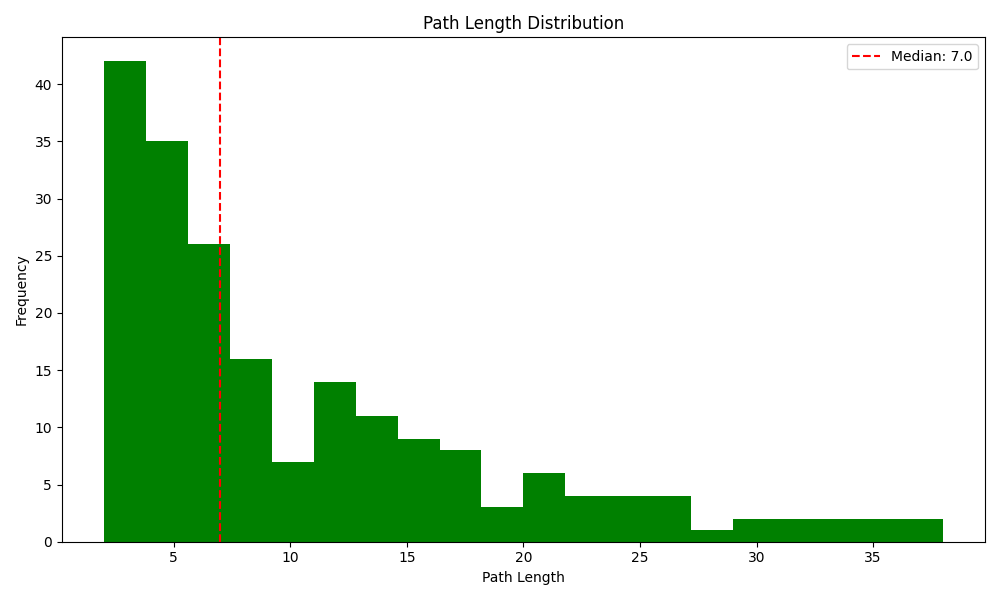
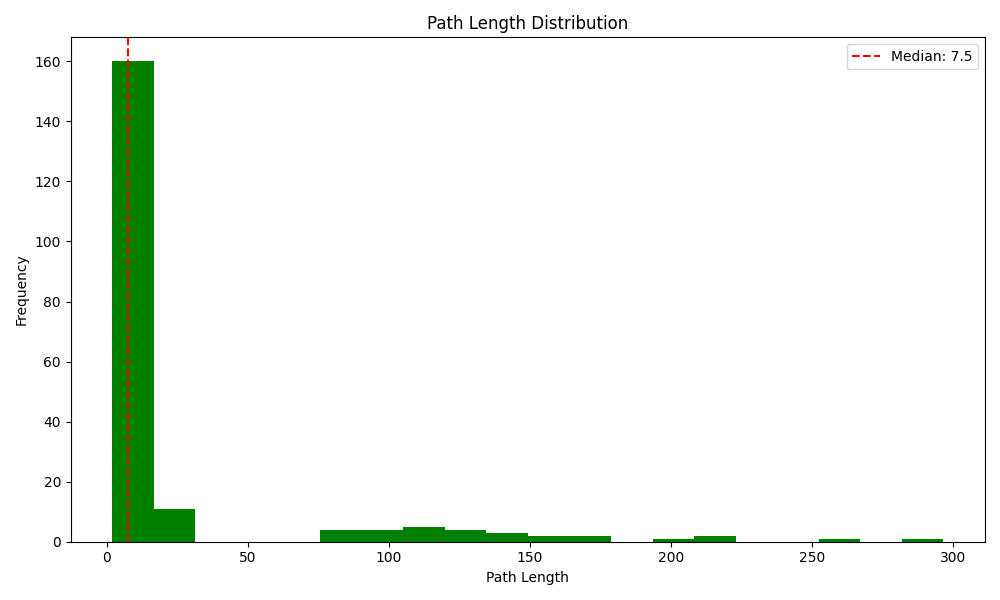
added solution notes

diff --git a/bogoDB/candidate_submission/optimize_graph.py b/bogoDB/candidate_submission/optimize_graph.py
@@ -146,33 +146,41 @@ def optimize_graph(
         if not node in important_nodes:
             unnecessary_node_list.append(node)
 
-
-    # create small cycle of important nodes
+    # order nodes by occurence
     important_node_list = [key for key, value in important_nodes.items()]
-
     important_node_list.sort(key = lambda x : -important_nodes[x])
-    print(important_node_list)
 
-    for i in range(len(important_node_list)):
-        u = important_node_list[i]
-        v = important_node_list[(i + 1)%len(important_node_list)]
-        optimized_graph[u][v] = 1
+    # split important nodes into 3 chains, ignoring most occuring node
 
-    # # feed other nodes into small cycle
-    # unnecessary_node_count = len(unnecessary_node_list)
-    # for i in important_node_list:
-    #     ratio = important_nodes[i]/total_queries # we want to have 'ratio' of the unnecessary nodes pointing to i
-    #     used = 0
-    #     # add the correct number of unnecessary nodes pointing to i
-    #     while used < ratio*unnecessary_node_count and len(unnecessary_node_list) > 0:
-    #         x = unnecessary_node_list[-1]
-    #         unnecessary_node_list.pop()
-    #         optimized_graph[x][i] = 1
-    #         used += 1
-    # # if we have leftovers due to precision, just distribute them according to the most important one
+    chain_lengths = [len(important_node_list)//2, len(important_node_list)//4]
+
+    chains = [[], [], []]
+
+    for i in range(1, chain_lengths[0]):
+        chains[0].append(important_node_list[i])
+    for i in range(chain_lengths[0], chain_lengths[0] + chain_lengths[1]):
+        chains[1].append(important_node_list[i])
+    for i in range(chain_lengths[0] + chain_lengths[1], len(important_node_list)):
+        chains[2].append(important_node_list[i])
+
+    # add edges for each chain and link the end to most occuring node
+    for i in range(3):
+        print(chains[i])
+        for j in range(len(chains[i]) - 1):
+            u = chains[i][j]
+            v = chains[i][j + 1]
+            optimized_graph[u][v] = 1
+        optimized_graph[chains[i][-1]][important_node_list[0]] = 1
+
+    # add edges from most occuring nodes to chains, should be weighted
+    optimized_graph[important_node_list[0]][chains[0][0]] = 10
+    optimized_graph[important_node_list[0]][chains[1][0]] = 1
+    optimized_graph[important_node_list[0]][chains[2][0]] = 1
+
+    # feed all unnecessary nodes into most important node
     for i in unnecessary_node_list:
         optimized_graph[i][important_node_list[0]] = 1
-
+    
     # =============================================================
     # End of your implementation
     # =============================================================

diff --git a/solution.md b/solution.md
@@ -3,27 +3,6 @@
 
 I spent way too long trying to get the emojis to render :(
 
-### Approach & Analysis
-
-
-
-
-### Optimization Strategy
-
-[Explain your optimization strategy in detail]
-
-### Implementation Details
-
-[Describe the key aspects of your implementation]
-
-### Results
-
-[Share the performance metrics of your solution]
-
-### Trade-offs & Limitations
-
-[Discuss any trade-offs or limitations of your approach]
-
 ### Iteration Journey
 
 For my first idea, I decided to solve a simpler version of the problem, ignoring the exponential distribution. Instead, I guaranteed that every query would reach its desired node by creating a big cycle. This idea achieved a score of a bit over 200.
@@ -33,3 +12,91 @@ After running this, I notice that there are very few distinct nodes that are act
 We can additionally optimize the previous idea, since within the few distinct queried nodes (call these important nodes), there are still differences in the amount of times they are queried. My first idea for optimizing this is to weight the number of unnecessary nodes that feeds into each important nodes by the number of times they are queried. After implementing this, it actually performs worse than the previous idea. Why?
 
 From looking at the data, the issue is that when a path enters the cycle, it might have to loop around the entire cycle to find its target node. Thus, we should be ordering the cycle in such a way so that the expected number of steps to reach the target node is minimized once a path enters the cycle. We can do this by having every single unnecessary node feed into the most occuring queried node and have the cycle loop around in decreasing order of occurence. This improves the score to around 540.
+
+Using this algorithm, the distribution of path lengths should be monotonically decreasing. However, there is a wierd gaps in the histogram when using the visualizer (specifically path length of 10 occurs much less than lengths 11-16). I believe this is since there is a chance for the random starting node to be within the cycle, which could then force it to loop around before reaching its target. How can we target this issue?
+
+The main source of this issue is that the cycle length is long, but we can use a probabilistic solution to get around it. My idea was to split the important nodes into 3 cycles instead of one big cycle to reduce the cycle length.
+
+### Approach & Analysis
+
+My approach mainly used the observation that cycles allowed all nodes in the cycle to reach each other deterministically. Since very few nodes are acutally queried, only a small cycle is needed, and all other paths can funnel into the small cycle.
+
+### Optimization Strategy
+
+To optimize this approach, we mainly order the cycle such that the cycle ends up checking nodes in sorted order of occurence. This guarantees that the most likely target node is checked first, second most likely is checked second, and so on.
+
+This strategy ends up bottlenecked by the cycle length, since if a high occuring node query starts in the cycle, it will have to loop around the entire cycle before reaching its target node. Thus, I tried to split the one big cycle into 3 cycles. Say the important nodes are sorted in order of occurence from $a_0, a_1, \ldots, a_n$ Then, the graph would look like
+
+$a_0 \to a_1 \to a_2 \ldots a_x \to a_0$
+
+$a_0 \to a_{x + 1} \to a_{x + 2} \ldots a_y \to a_0$
+
+$a_0 \to a_{y + 1} \to a_{y + 2} \ldots a_n \to a_0$
+
+Where $x$ and $y$ are some predefined constants.
+
+The weights of $a_0 \to a_1$, $a_0 \to a_{x + 1}$ and $a_0 \to a_{y + 1}$ should be weighted to minimize expected moves. Unfortunately I didn't have enough time to improve this idea enough to outperform the previous idea, but the most recent implementation is on this commit.
+
+### Implementation Details
+
+Best performing code (uses first optimization idea described above):
+
+```python
+# gets nodes that were queried
+important_nodes = {}
+total_queries = 0
+
+for res in results['detailed_results']:
+    node = str(res['target'])
+    if not node in important_nodes:
+        important_nodes[node] = 0
+    important_nodes[node] += 1
+    total_queries += 1
+
+# initialize optimized graph
+optimized_graph = {}
+
+for node, edges in initial_graph.items():
+    optimized_graph[node] = dict()
+
+# create list of unnecessary nodes
+unnecessary_node_list = []
+
+for node, edges in initial_graph.items():
+    if not node in important_nodes:
+        unnecessary_node_list.append(node)
+
+
+# create small cycle of important nodes
+important_node_list = [key for key, value in important_nodes.items()]
+
+important_node_list.sort(key = lambda x : -important_nodes[x])
+print(important_node_list)
+
+for i in range(len(important_node_list)):
+    u = important_node_list[i]
+    v = important_node_list[(i + 1)%len(important_node_list)]
+    optimized_graph[u][v] = 1
+```
+
+### Results
+
+The best performing code achieves a score of around 530-540. My most recent implementation achieves a score of around 510-540.
+
+### Trade-offs & Limitations
+
+Some limitations for my best performing code was that it is very dependent on knowing the queries beforehand since some nodes will just never be reached. It also had the issue described in the optimization section where if a path starts in the cycle, it may end up walking extra.
+
+For my most recent implementation it still has the limitation of needing to know the queries beforehand, but it also have some tradeoffs in how to partition the important nodes into paths. Increasing the length/changing the probability of entering of one of the cycles might increase or decrease the number of walks for different starting/target nodes.
+
+### Other Ideas
+
+For my most recent implementation, its possible to choose cycle lengths and weights to minimize the expected number of moves. Let $l_i$ be the length of cycle $i$, $p_i$ be the probability of entering cycle $i$ from $a_0$, $pos_x$ be the position of node $x$ in its cycle, $c_x$ be $x$'s cycle, and $prob_x$ be the probability that node $x$ is queried. Then, the expected number of moves would be $1 + \sum_x prob_x(pos_x + \frac{1}{p_{c_x}}\sum_{i \neq c_x} p_i l_i)$. Then, for every combination of cycle lengths, $pos_x$ is fixed, so we could just try every possible cycle length and probability to take the minimum over all of them. Unfortunately, I didn't have time to implement this.
+
+Another idea I didn't have time to implement would be a more generalized version of the three cycles, where more nodes other than $a_0$ is allowed to branch. This could probably be optimized to minimize expectation as well with some dynamic programming (haven't worked out any details yet).
+
+Some more things I wanted to try but didnt't have time to:
+- Sacrificing success rate for path length
+- Ideas that require more probabilistic methods:
+    - Making the graph strongly connected so all query can be reached
+    - Other structures with smaller diameter than cycles
